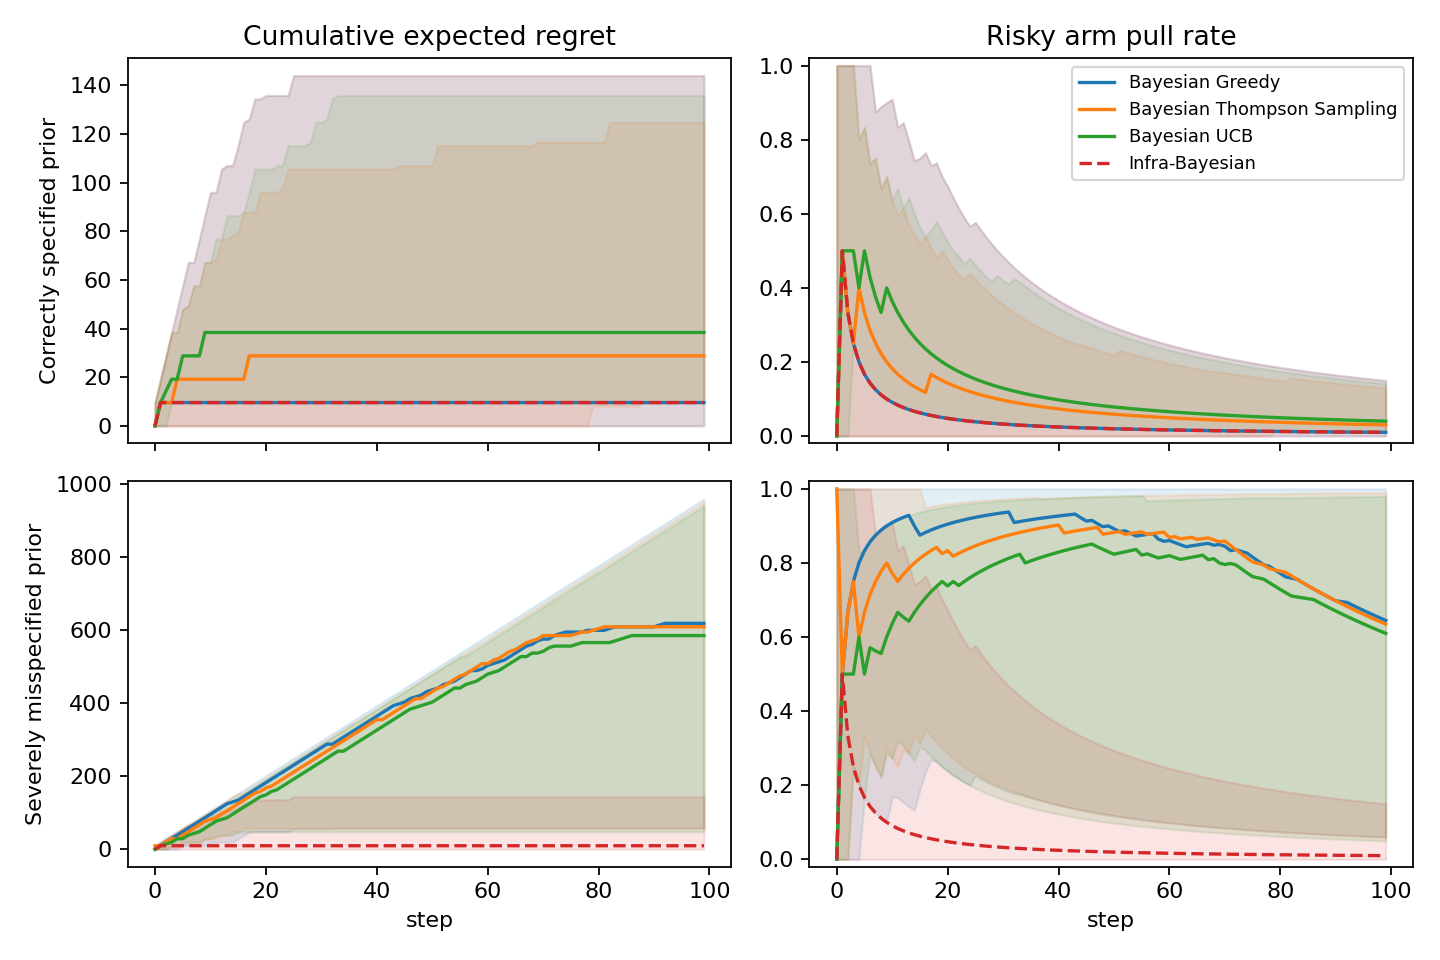
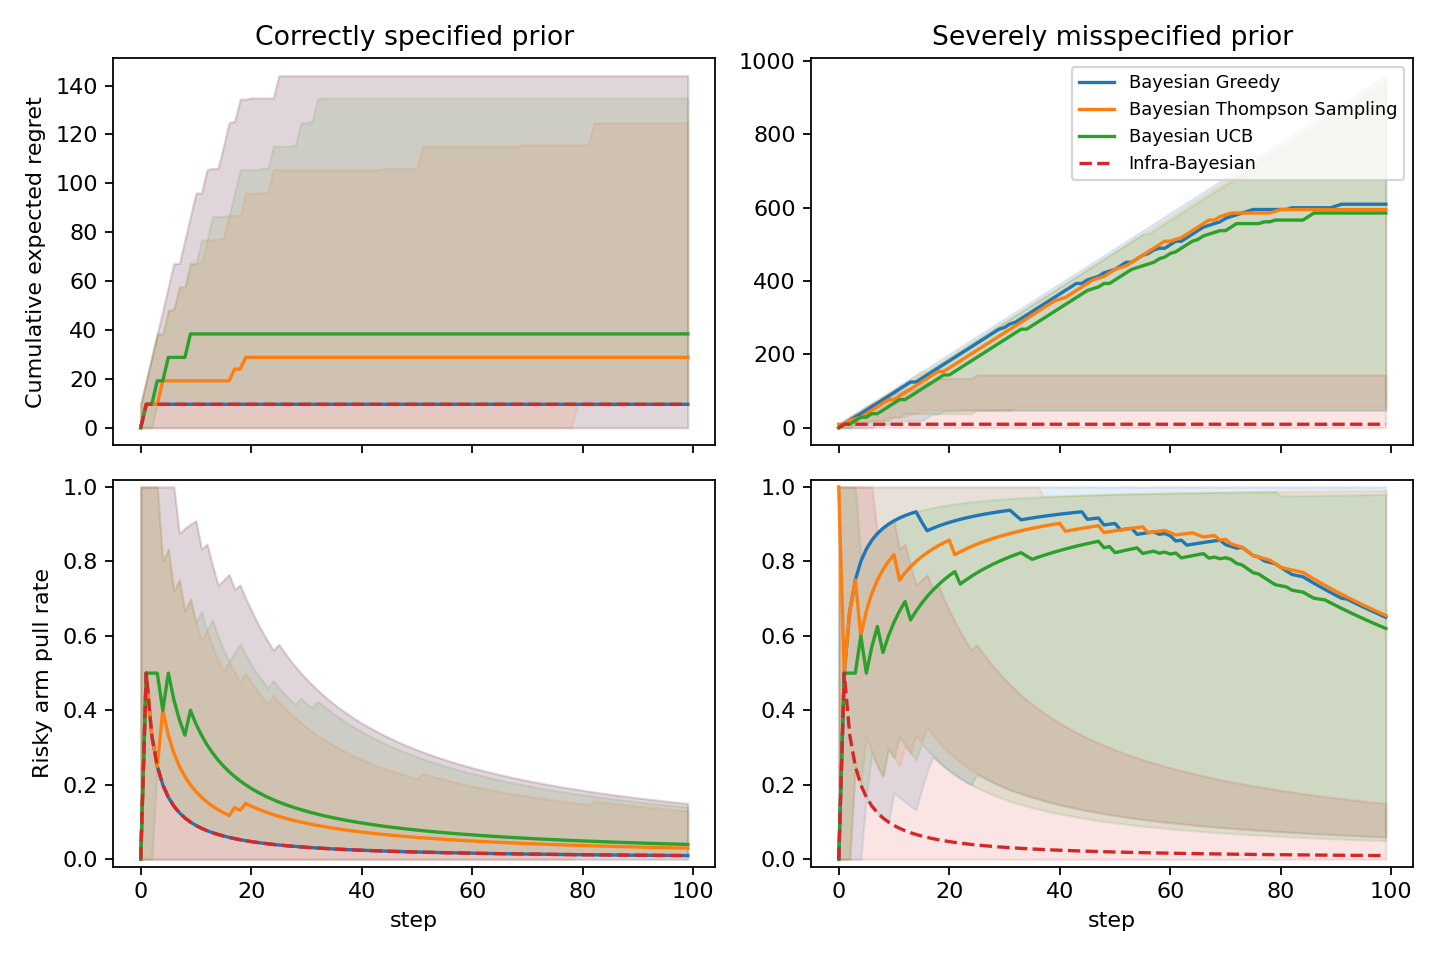
Update plot

diff --git a/experiments/alaro/trap_bandit/run.py b/experiments/alaro/trap_bandit/run.py
@@ -421,17 +421,17 @@ def plot_risky_condition_grid(
     conditions: list[str],
     agents: list[str],
 ) -> None:
-    fig, axes = plt.subplots(len(conditions), 2, figsize=(9, 6), sharex=True)
+    fig, axes = plt.subplots(2, len(conditions), figsize=(9, 6), sharex=True)
     if len(conditions) == 1:
-        axes = np.asarray([axes])
+        axes = np.asarray(axes).reshape(2, 1)
 
-    for row, condition in enumerate(conditions):
+    for col, condition in enumerate(conditions):
         summary = load_summary(results_dir, condition)
-        ax_regret = axes[row, 0]
-        ax_trapped = axes[row, 1]
+        ax_regret = axes[0, col]
+        ax_trapped = axes[1, col]
 
         for agent in agents:
-            group = summary[agent]["risky"]
+            group = summary[agent]["all"]
             p5, p50, p95 = np.asarray(group["regret_p5_p50_p95"])
             steps = np.arange(len(p50))
             label = AGENT_LABELS.get(agent, agent)
@@ -456,14 +456,14 @@ def plot_risky_condition_grid(
             )
             ax_trapped.fill_between(steps, p5, p95, alpha=0.12, color=color)
 
-        ax_regret.set_ylabel(CONDITION_LABELS.get(condition, condition))
-        ax_regret.set_title("Cumulative expected regret" if row == 0 else "")
-        ax_trapped.set_title("Risky arm pull rate" if row == 0 else "")
+        ax_regret.set_title(CONDITION_LABELS.get(condition, condition))
         ax_trapped.set_ylim(-0.02, 1.02)
 
-    axes[-1, 0].set_xlabel("step")
-    axes[-1, 1].set_xlabel("step")
-    axes[0, 1].legend(loc="upper right", fontsize=8)
+    axes[0, 0].set_ylabel("Cumulative expected regret")
+    axes[1, 0].set_ylabel("Risky arm pull rate")
+    for ax in axes[-1, :]:
+        ax.set_xlabel("step")
+    axes[0, -1].legend(loc="upper right", fontsize=8)
     fig.tight_layout()
     fig.savefig(output_path, dpi=160)
     plt.close(fig)
